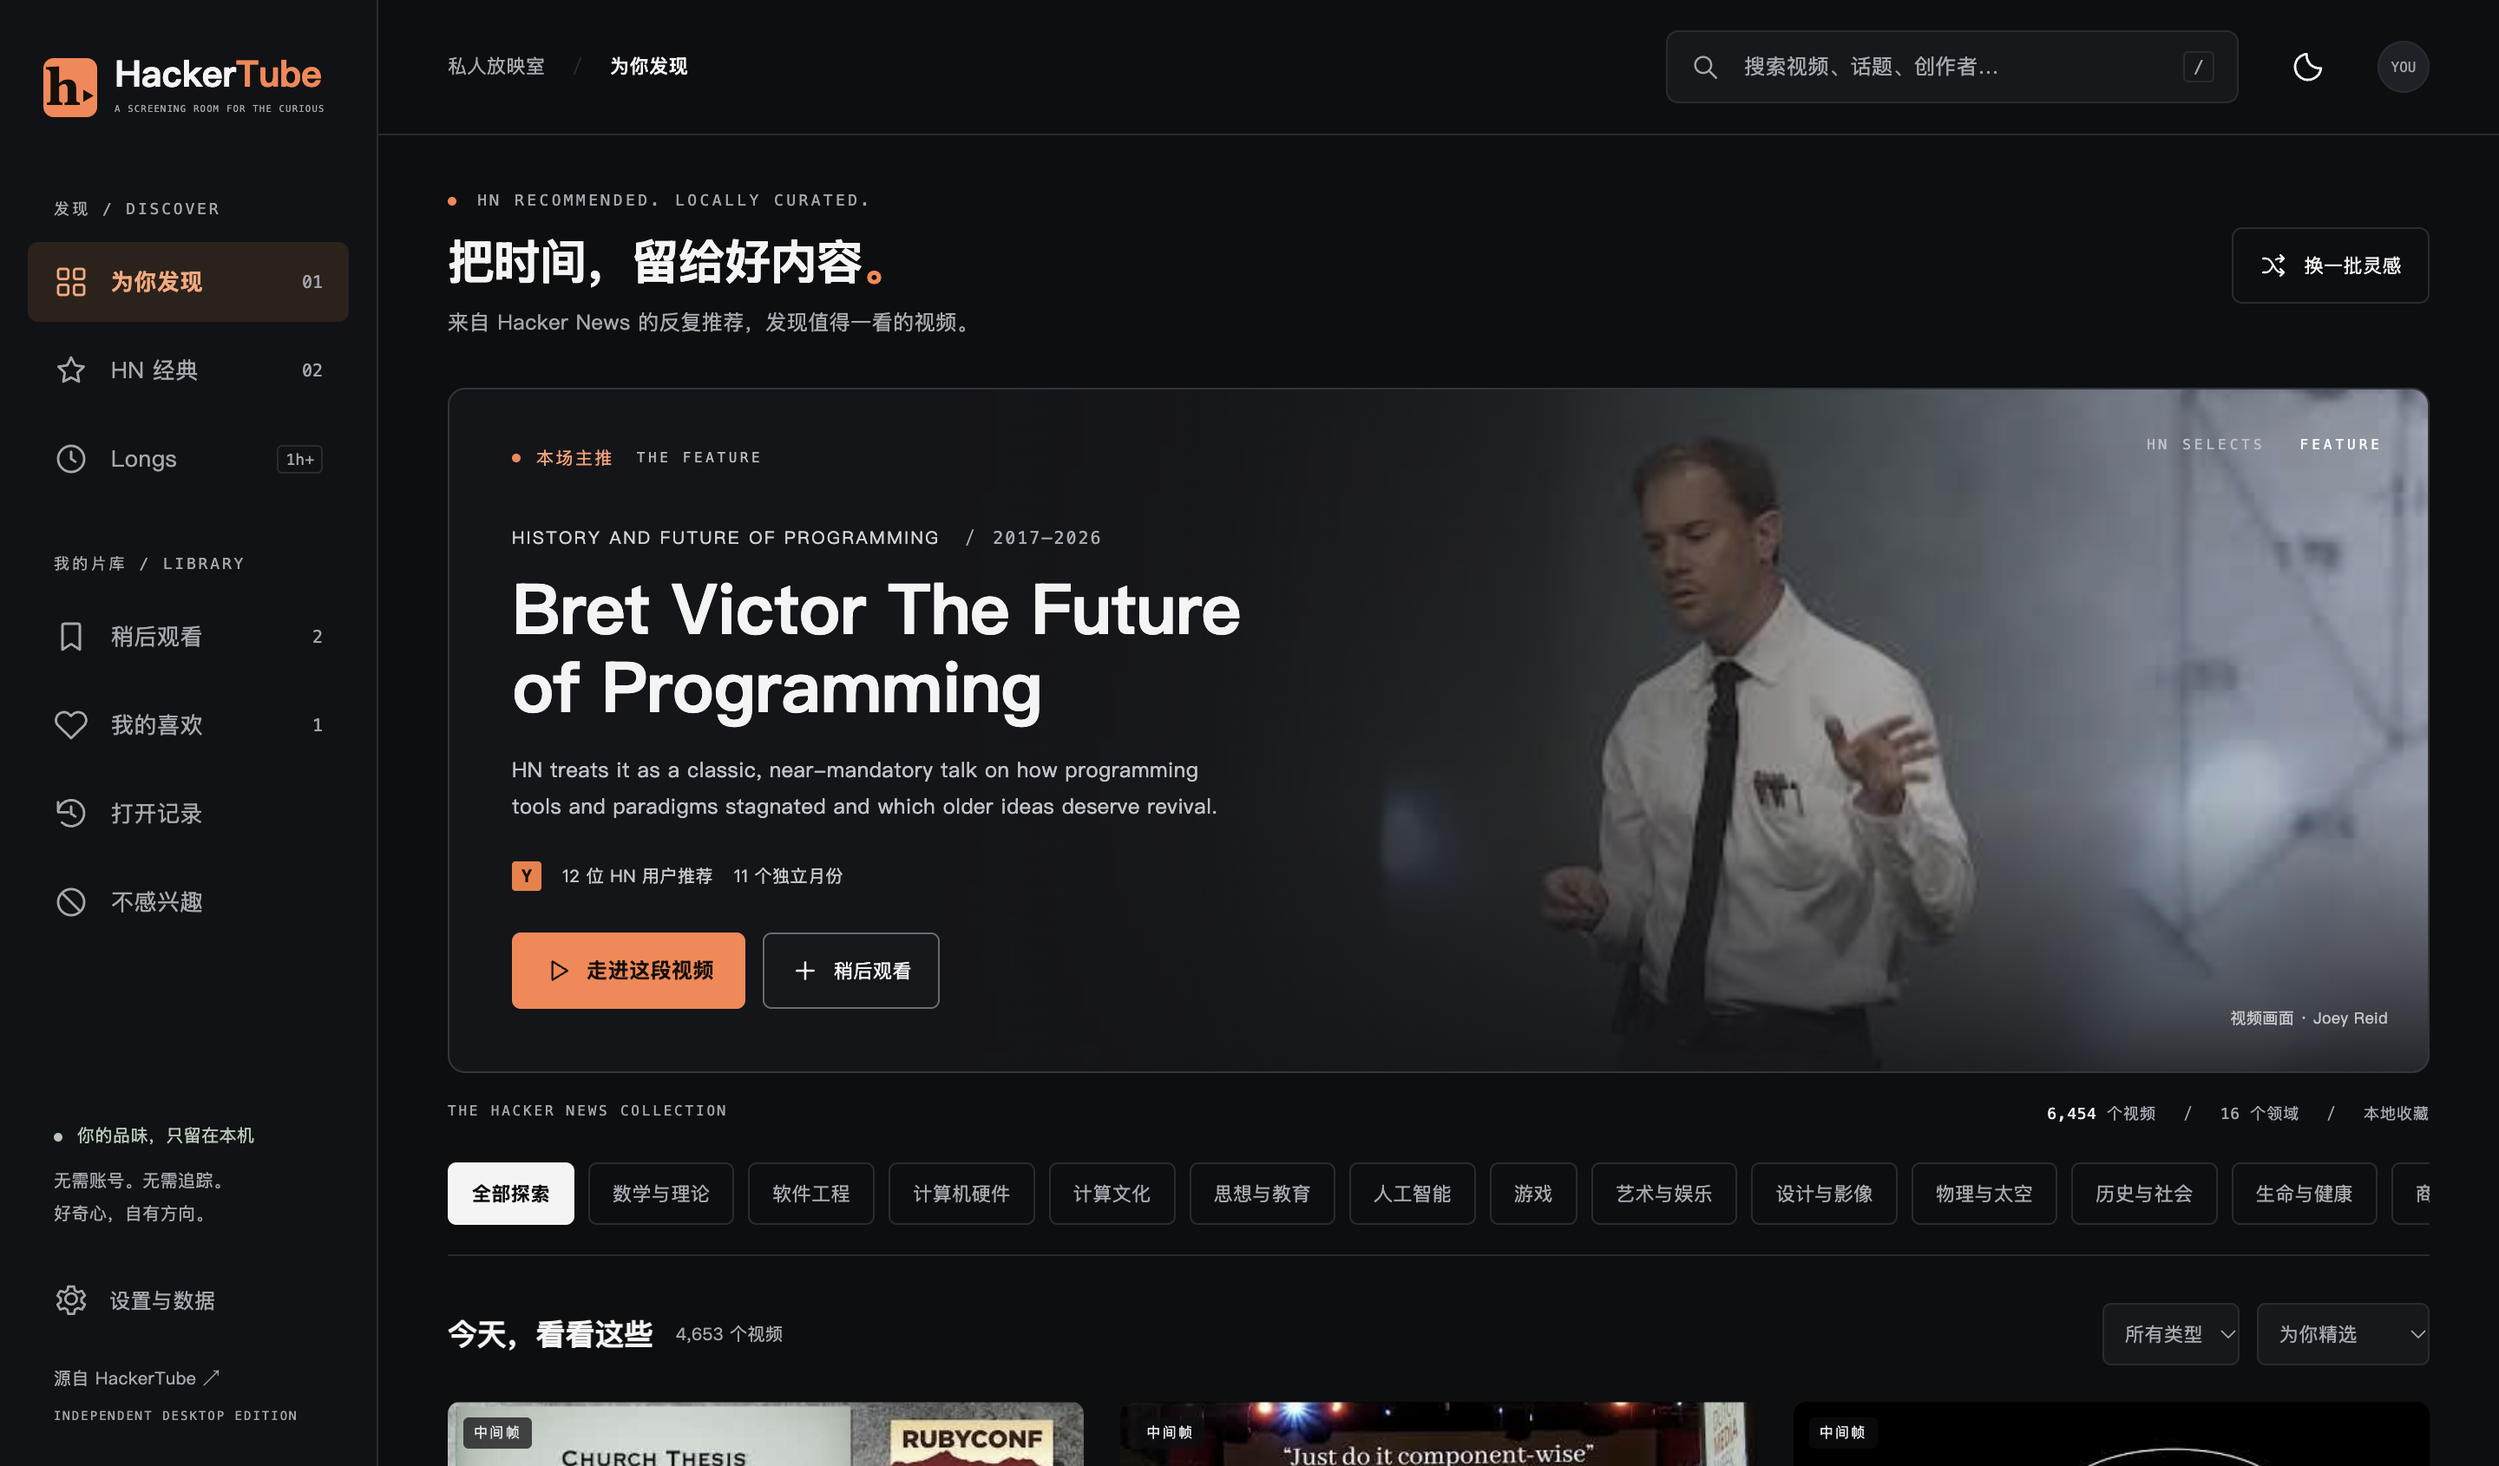
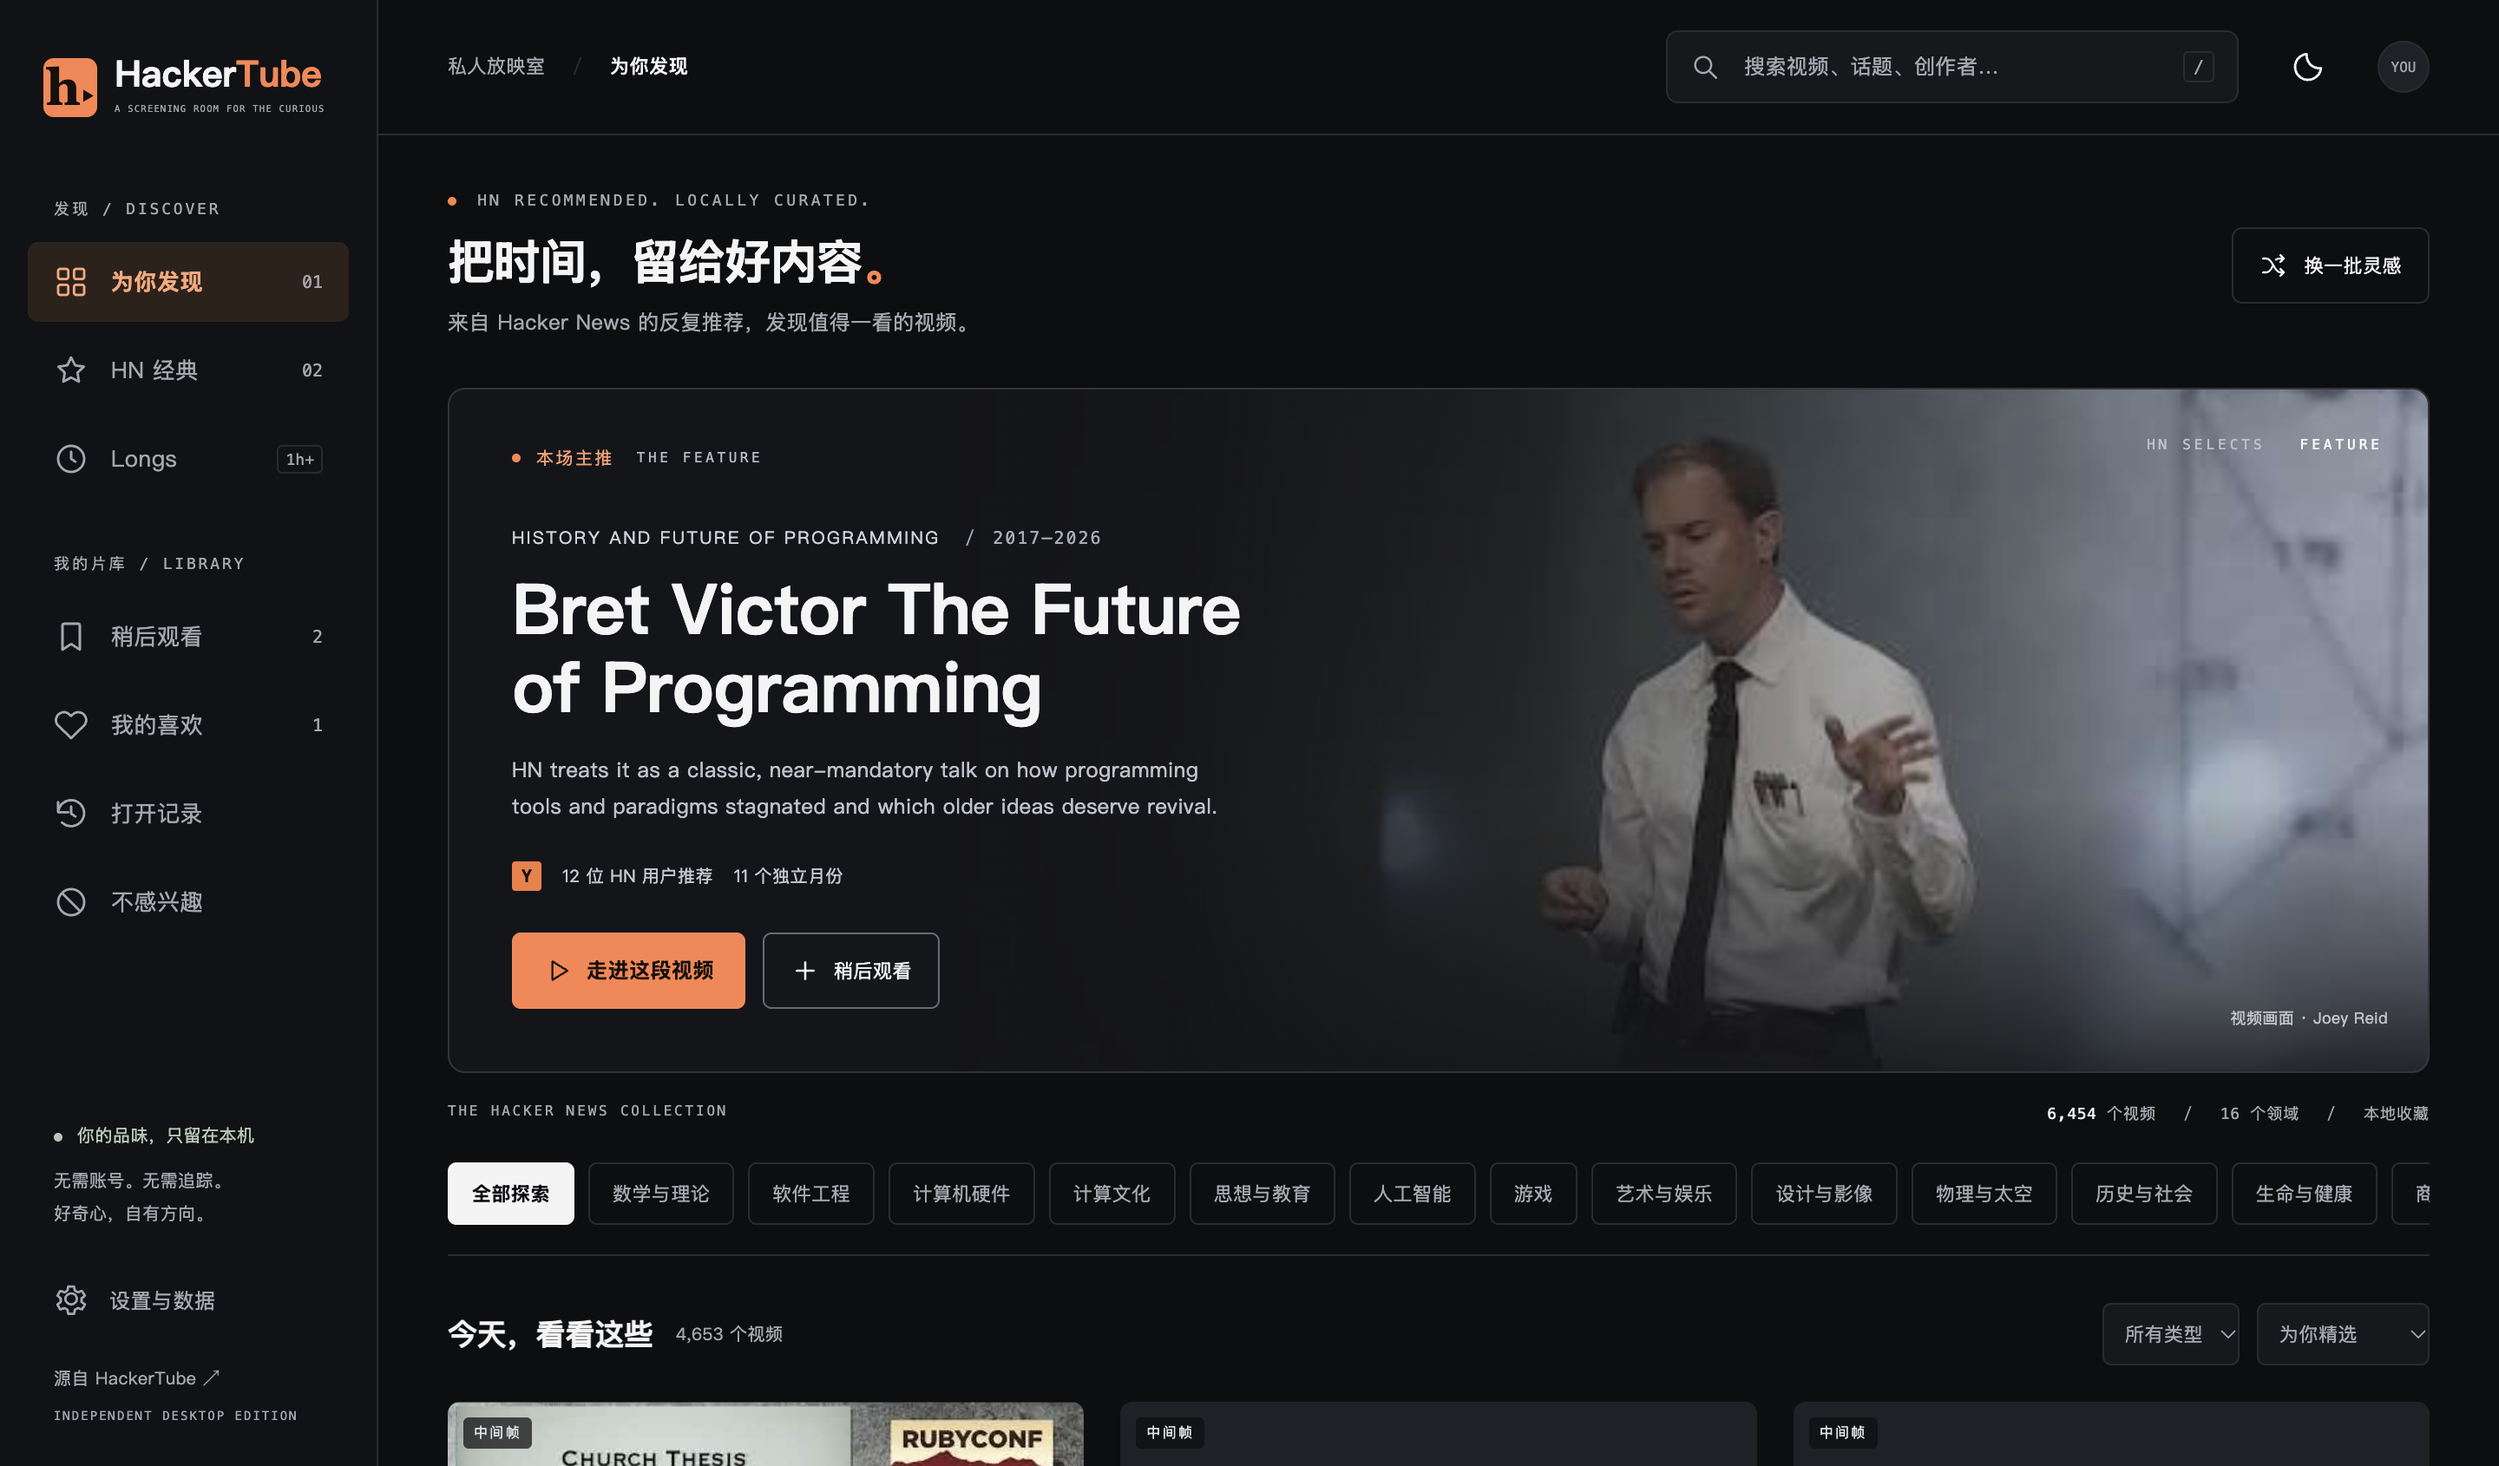
Wait for library navigation in desktop smoke test

Changed region(s): [[0.4375, 0.9538, 1.0, 1.0]]

diff --git a/CONTRIBUTING.md b/CONTRIBUTING.md
@@ -12,7 +12,7 @@ scripts without a separate product discussion.
 The desktop test creates an isolated temporary profile and tests the real Electron
 runtime, native bridge, backup compatibility and restart persistence. It does not
 access your normal application library or browser profile. It writes a screenshot
-to `docs/images/desktop.png`; include it only when intentionally updating the UI.
+to `artifacts/desktop.png`; copy it to `docs/images/desktop.png` only when intentionally updating the UI.
 
 Never expose generic filesystem, shell or IPC access through preload. New external
 URLs, catalog parameters or assets must be reviewed in `desktop/policy.mjs` and
